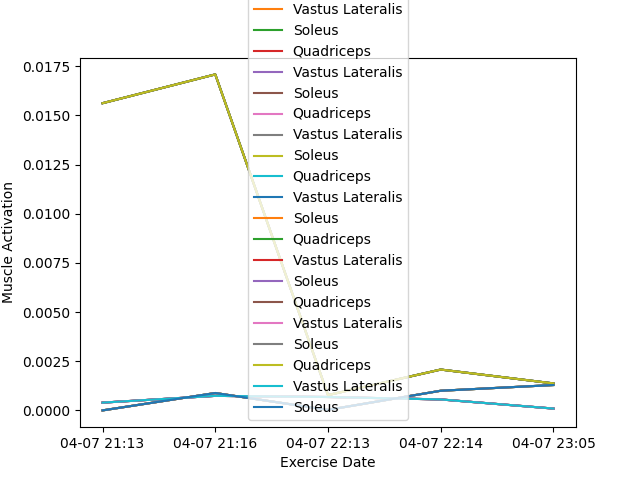
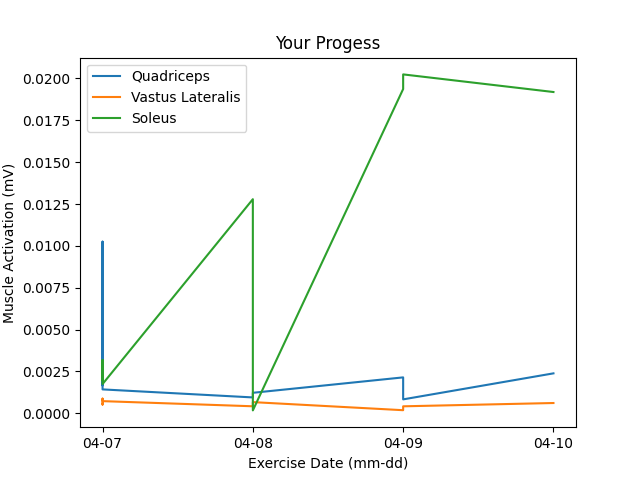
plotting working properly and clean

diff --git a/endpoints/endpoints.py b/endpoints/endpoints.py
@@ -185,10 +185,10 @@ def data_filter():
 
 @app.route('/get_data', methods=['GET', 'POST'])
 def get_data():
-    import numpy as np
     import matplotlib
     matplotlib.use('Agg')  # Set the backend to Agg
     import matplotlib.pyplot as plt
+    import math
 
     email = request.json.get('email')
     found_user_data = Data.query.filter_by(email=email).order_by(Data.time_recorded).all()
@@ -199,25 +199,29 @@ def get_data():
     print(f'SUCCESS:get_data: Data found for {email}')
 
     emg1, emg2, emg3, time = [], [], [], []
-    for entry in found_user_data[len(found_user_data)-5:]:
+    iter = math.ceil(len(found_user_data)/10)
+    for entry in found_user_data[::iter]:
         emg1.append(entry.emg_1)
         emg2.append(entry.emg_2)
         emg3.append(entry.emg_3)
-        time.append(entry.time_recorded.strftime('%m-%d %H:%M'))
-    print(emg1, emg2, emg3, time)
-    np.array(emg1)
-    np.array(emg2)
-    np.array(emg3)
+        time.append(entry.time_recorded.strftime('%m-%d'))
+    emg1.append(found_user_data[-1].emg_1)
+    emg2.append(found_user_data[-1].emg_2)
+    emg3.append(found_user_data[-1].emg_3)
+    time.append(found_user_data[-1].time_recorded.strftime('%m-%d'))
 
-    plt.plot(time,emg1,label='Quadriceps')
-    plt.plot(time,emg2,label='Vastus Lateralis')
-    plt.plot(time,emg3,label='Soleus')
-    plt.xlabel('Exercise Date')
-    plt.ylabel('Muscle Activation')
-    plt.legend()
+    fig = plt.figure()
+    fig, ax = plt.subplots()
+    ax.plot(time, emg1, label='Quadriceps')
+    ax.plot(time, emg2, label='Vastus Lateralis')
+    ax.plot(time, emg3, label='Soleus')
+    ax.set_xlabel('Exercise Date (mm-dd)')
+    ax.set_ylabel('Muscle Activation (mV)')
+    ax.set_title('Your Progess')
+    ax.legend()
 
     filename = email + ".png"
-    plt.savefig(filename)
+    fig.savefig(filename)
 
     return jsonify({'success': True})
 
